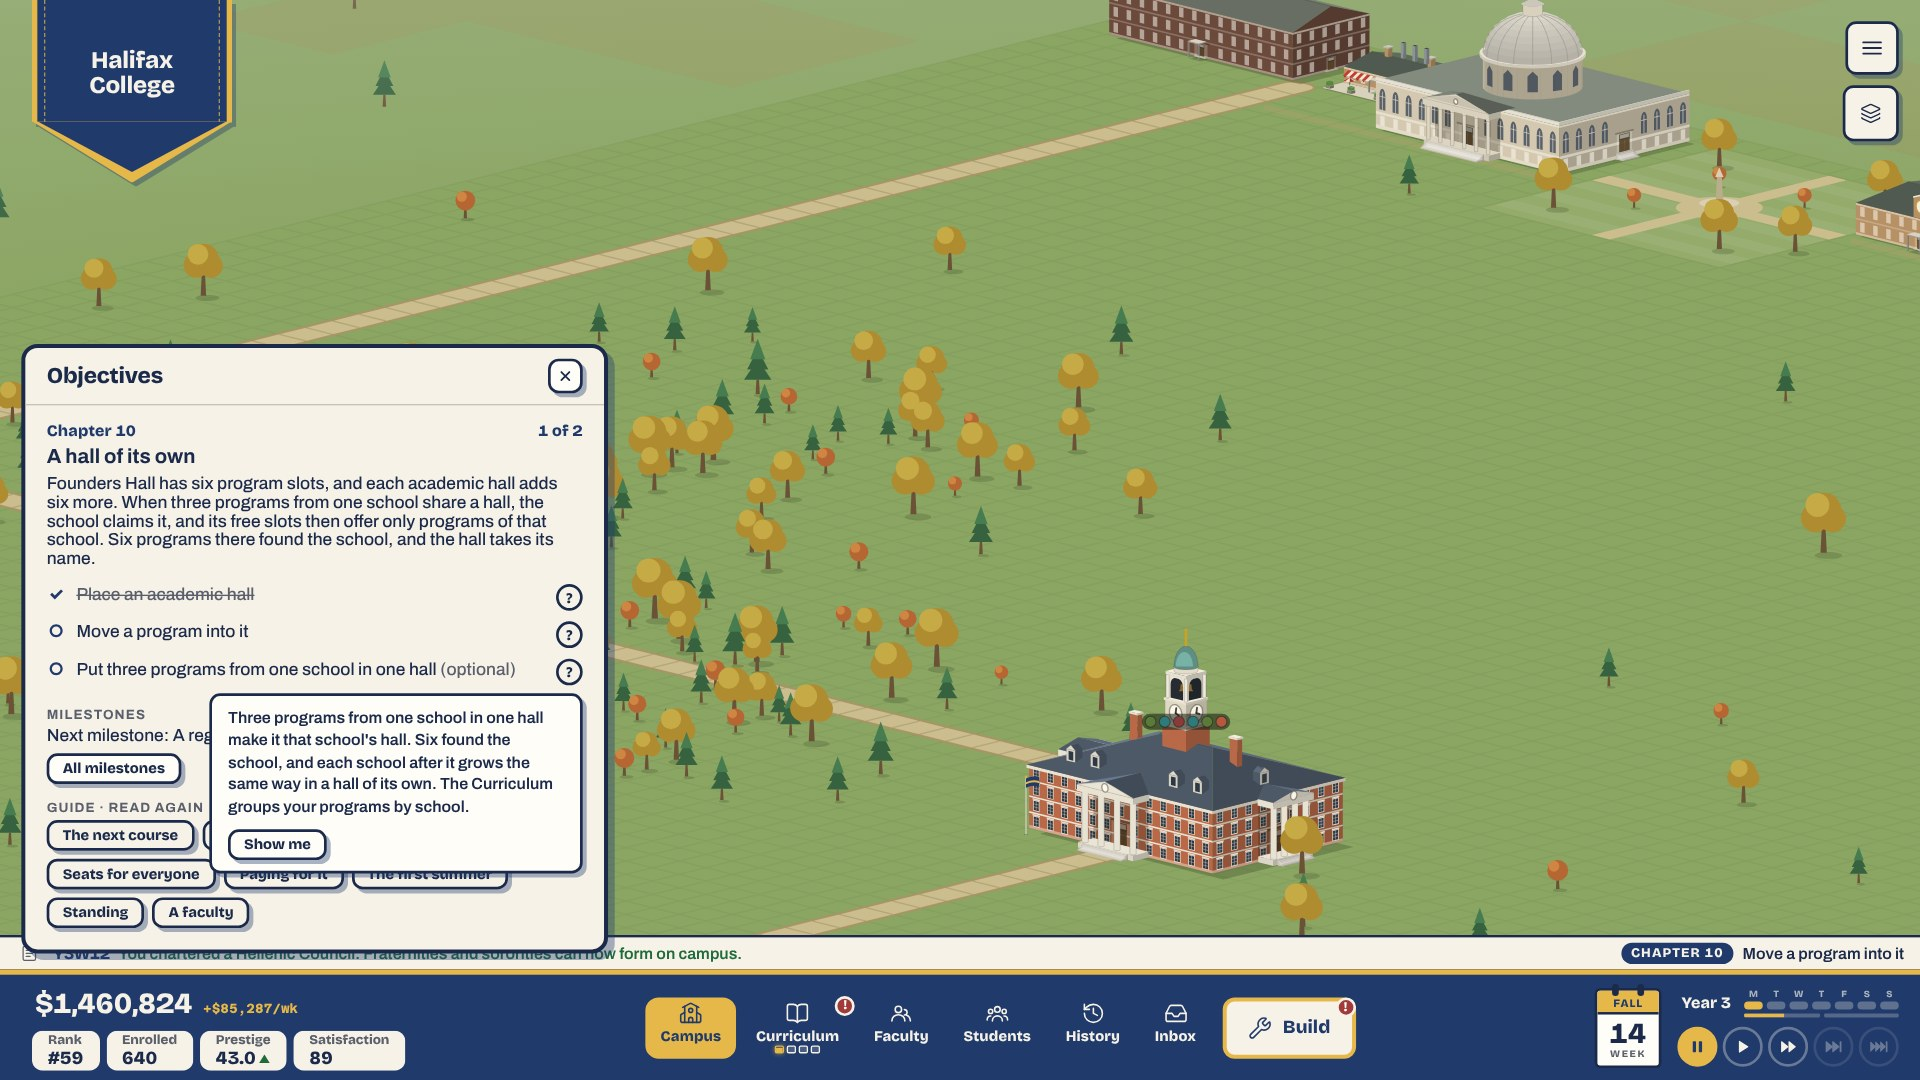
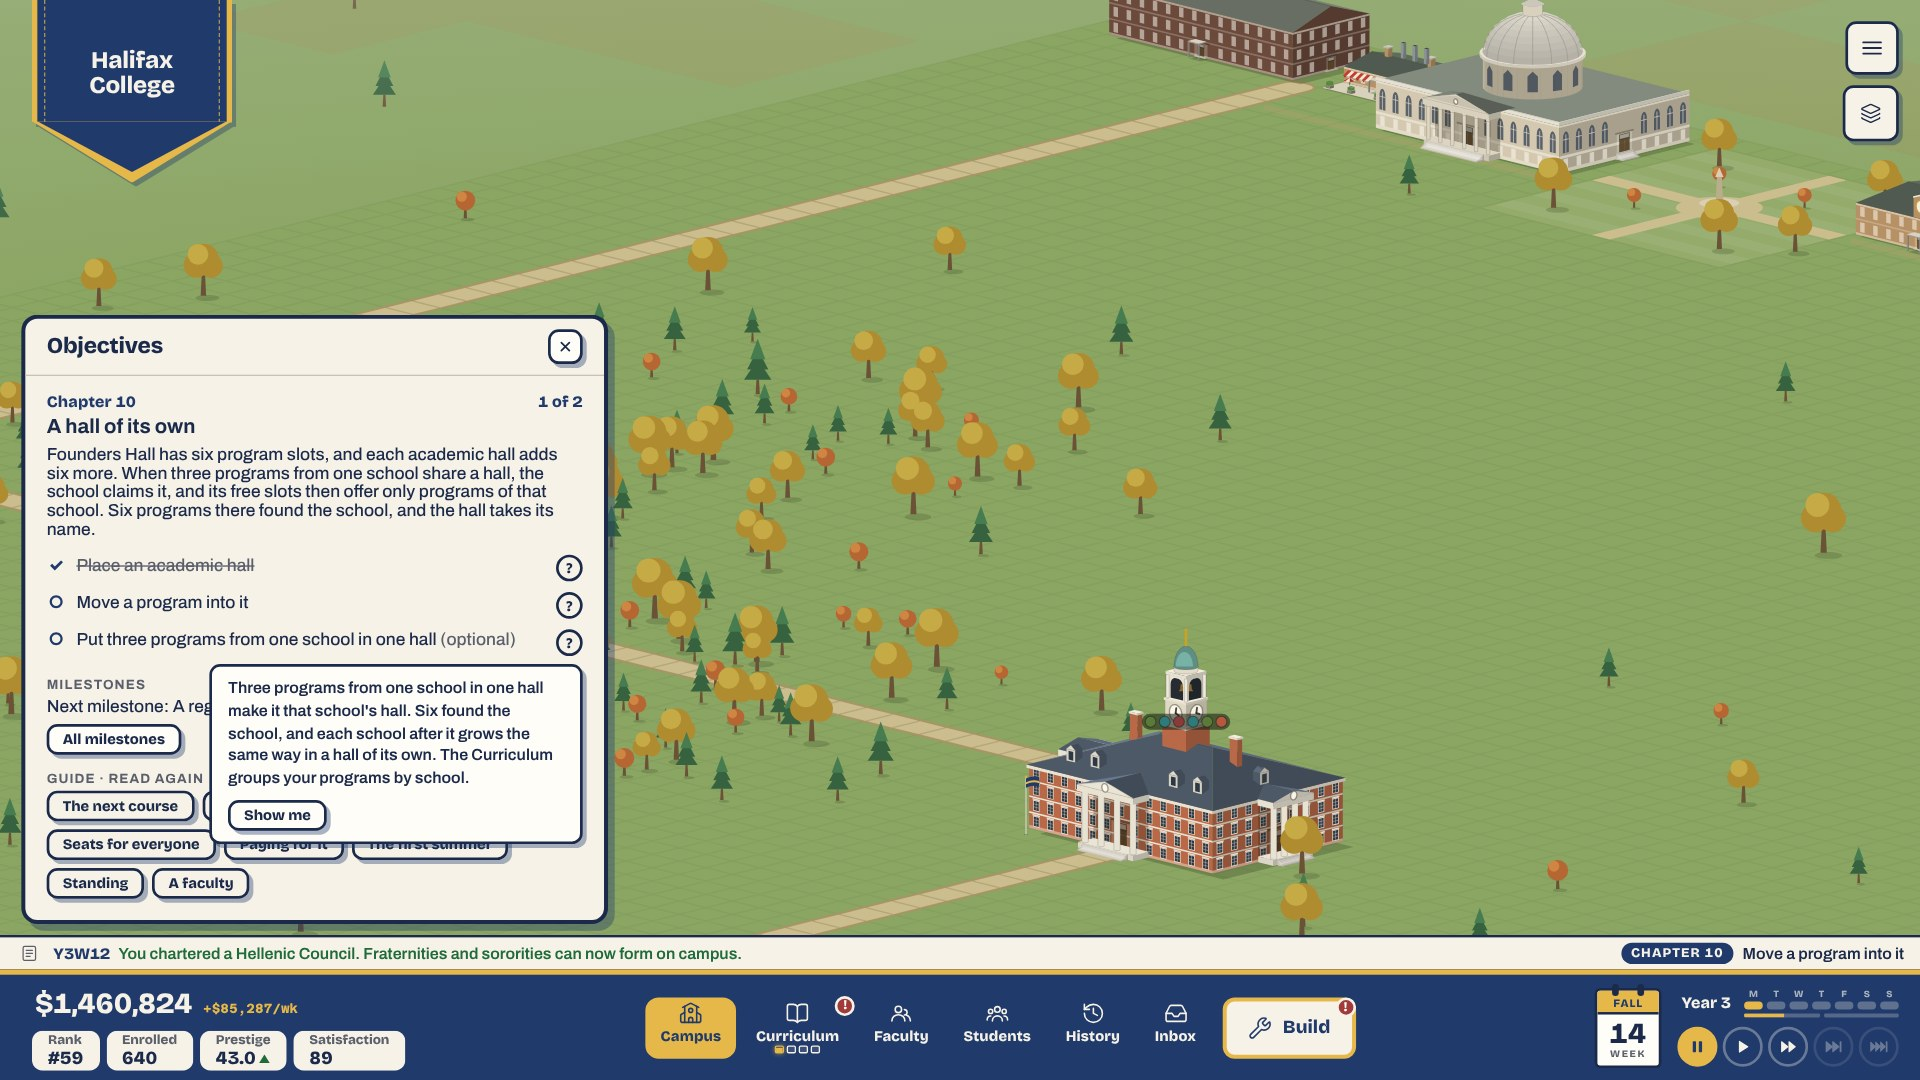
Toolbar popups stand clear of the activity strip
The objectives drawer, the log and the milestones sat 12px above the
toolbar, so their bottom edge ran through the strip's line and it read
as struck through (Plan 117B's chapters shot). They now sit above the
strip; the chapters shot is retaken with it.

Claude-Session: https://claude.ai/code/session_01AraYfLkixjF6nGPd7WgUTB

Changed region(s): [[0.0, 0.275, 0.3438, 0.8861]]

diff --git a/unischool/src/styles.css b/unischool/src/styles.css
@@ -731,8 +731,10 @@ button.toolbar-stat:hover { border-color: var(--school-secondary); }
 .panel-action { padding: var(--space-4) var(--space-12); font-size: var(--text-xs); white-space: nowrap; }
 
 /* ---------- Toolbar popups ----------
-   Cards above the toolbar (ToolbarPopup.tsx), leaving the map clickable. */
-.toolbar-popup { position: fixed; z-index: 20; bottom: calc(var(--toolbar-height) + 12px);
+   Cards above the toolbar and the activity strip (ToolbarPopup.tsx),
+   leaving the map clickable. Clear of the strip: its line read as struck
+   through under a popup's bottom edge (Plan 117B's chapters shot). */
+.toolbar-popup { position: fixed; z-index: 20; bottom: calc(var(--toolbar-height) + var(--log-ticker-height) + 8px);
   display: flex; flex-direction: column; background: var(--cream); border: 3px solid var(--outline);
   border-radius: var(--radius-xl); box-shadow: var(--elevation-popup); color: var(--ink);
   animation: popup-rise 150ms cubic-bezier(0.2, 0.8, 0.3, 1); }
